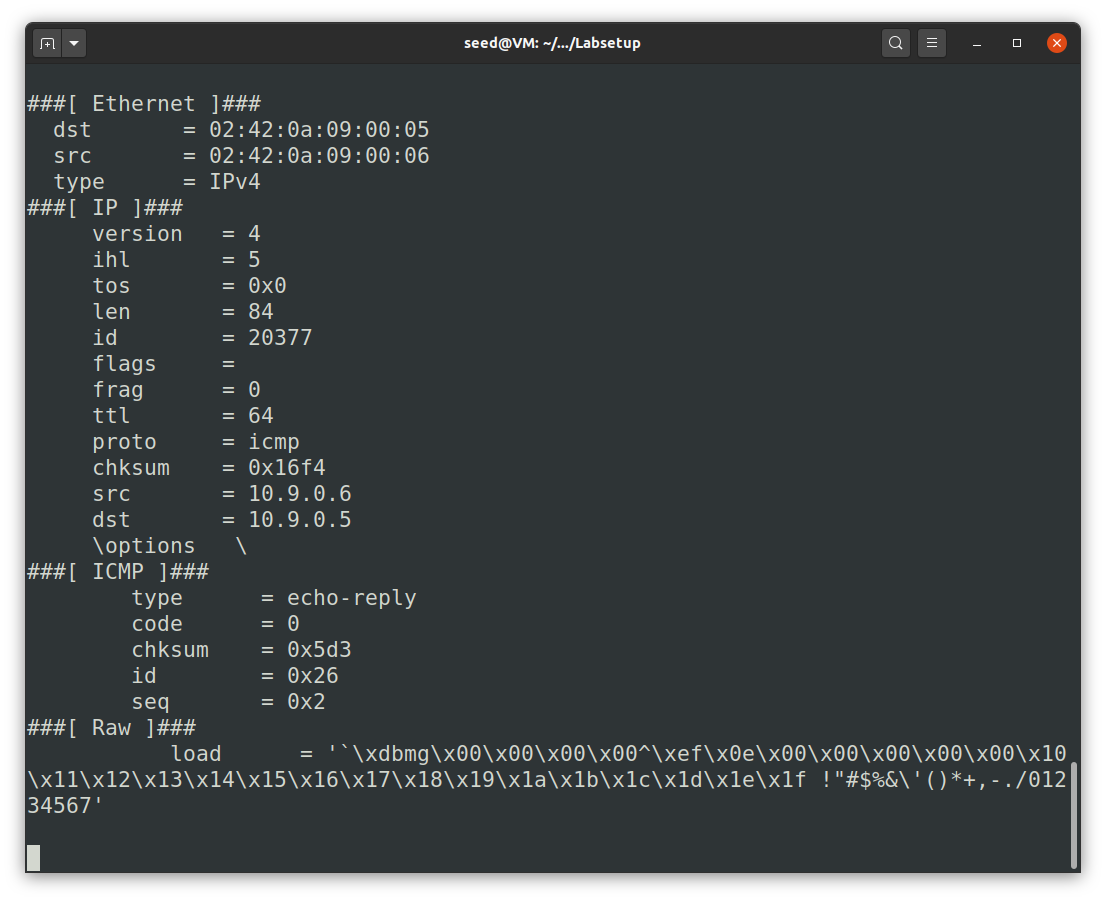
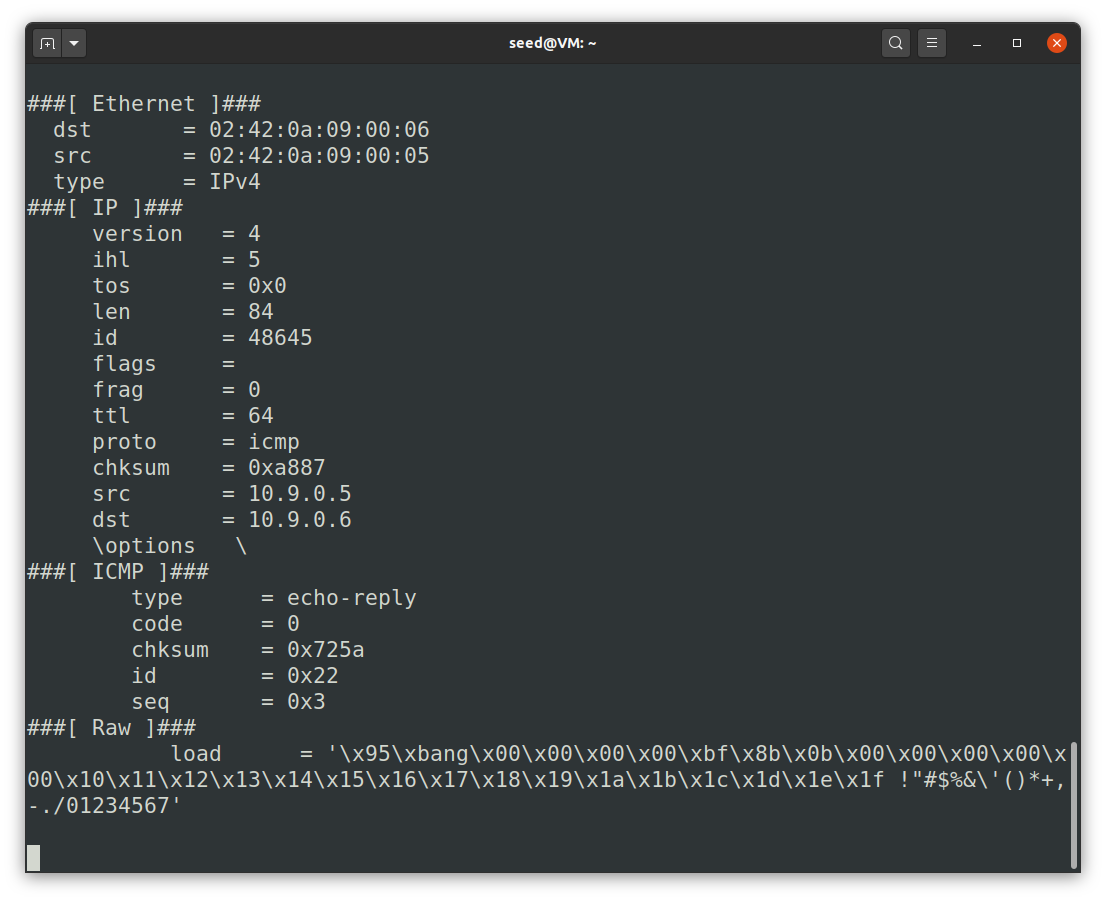
Doing other people's job

diff --git a/LOGBOOK13.md b/LOGBOOK13.md
@@ -45,7 +45,7 @@ pkt = sniff(iface='br-87824c9e582a', filter='icmp', prn=print_pkt)
 
 This script will sniff all packets from the network interface `br-87824c9e582a` that are ICMP packets, and will print them to the console.
 
-To see this script in action, we can start a shell inside the seed-attacker container (using `docksh <container-ID>`), give the script execution permissions (using `chmod a+x sniffer.py`) and run it (`sniffer.py`). From there, we can ping hostB from hostA (using `ping 10.9.0.6`) and, as we will see, the script will print the packets that are being transmitted, like the one presented below:
+To see this script in action, we can start a shell inside the seed-attacker container (using `docksh <container-ID>`), give the script execution permissions (using `chmod a+x script1.1-A.py`) and run it (`script1.1-A.py`). From there, we can ping host A from host B (using `ping 10.9.0.5`) and, as we will see, the script will print the packets that are being transmitted, like the one presented below:
 
 <p align="center" justify="center">
   <img src="./assets/LOGBOOK13/sniff.png">
@@ -93,7 +93,7 @@ def main():
     iface = 'br-87824c9e582a'
 
     if len(sys.argv) != 2:
-        print("Usage: sniffer.py [ICMP|TCP|SUBNET]")
+        print("Usage: script1.1-B.py [ICMP|TCP|SUBNET]")
         exit(1)
 
     if sys.argv[1] == 'ICMP':
@@ -103,18 +103,18 @@ def main():
     elif sys.argv[1] == 'SUBNET':
         capture_subnet(iface, '10.9.0.0/24')
     else:
-        print("Usage: sniffer.py [ICMP|TCP|SUBNET]")
+        print("Usage: script1.1-B.py [ICMP|TCP|SUBNET]")
         exit(1)
 
 if __name__ == '__main__':
     main()
 ```
 
-- The example originally presented already filters ICMP packets (using `icmp`), which is done if we run this script using the `ICMP` option. If we generate a packet using `send(IP(dst='10.9.0.6')/ICMP())`, it will be captured by the script. However, a TCP packet, for example (generated using `send(IP(dst='10.9.0.6')/TCP())`), will not be captured.
+- The example originally presented already filters ICMP packets (using `icmp`), which is done if we run this script using the `ICMP` option. If we generate a packet using `send(IP(dst='10.9.0.5')/ICMP())`, it will be captured by the script. However, a TCP packet, for example (generated using `send(IP(dst='10.9.0.5')/TCP())`), will not be captured.
 
-- To filter TCP packets that come from a particular IP (in our case, `10.9.0.5`) and with a destination port number 23, we can use the filter `tcp dst port 23 and src host 10.9.0.5`. We can see this working by generating a packet using `send(IP(dst='10.9.0.6')/TCP(dport=23))` in hostA (but not with `send(IP(dst='10.9.0.6')/TCP(dport=21))`, for example)
+- To filter TCP packets that come from a particular IP (in our case, `10.9.0.5`) and with a destination port number 23, we can use the filter `tcp dst port 23 and src host 10.9.0.5`. We can see this working by generating a packet using `send(IP(dst='10.9.0.5')/TCP(dport=23))` in host B (but not with `send(IP(dst='10.9.0.5')/TCP(dport=21))`, for example)
 
-- To filter packets that come from or go to a particular subnet (we will be using `10.9.0.0/24`), we can use the filter `net 10.9.0.0/24`. If we generate packets from or to the subnetwork (like any un-spoofed packet generated from hostA), they will be captured by the script. A packet generated using `send(IP(src='10.9.1.5', dst='10.9.1.6')/ICMP())` will not appear in the console, however, since neither the destination nor the source are from the subnetwork.
+- To filter packets that come from or go to a particular subnet (we will be using `10.9.0.0/24`), we can use the filter `net 10.9.0.0/24`. If we generate packets from or to the subnetwork (like any un-spoofed packet generated from host B), they will be captured by the script. A packet generated using `send(IP(src='10.9.1.6', dst='10.9.1.5')/ICMP())` will not appear in the console, however, since neither the destination nor the source are from the subnetwork.
 
 ## Task 1.2: Spoofing ICMP Packets
 
